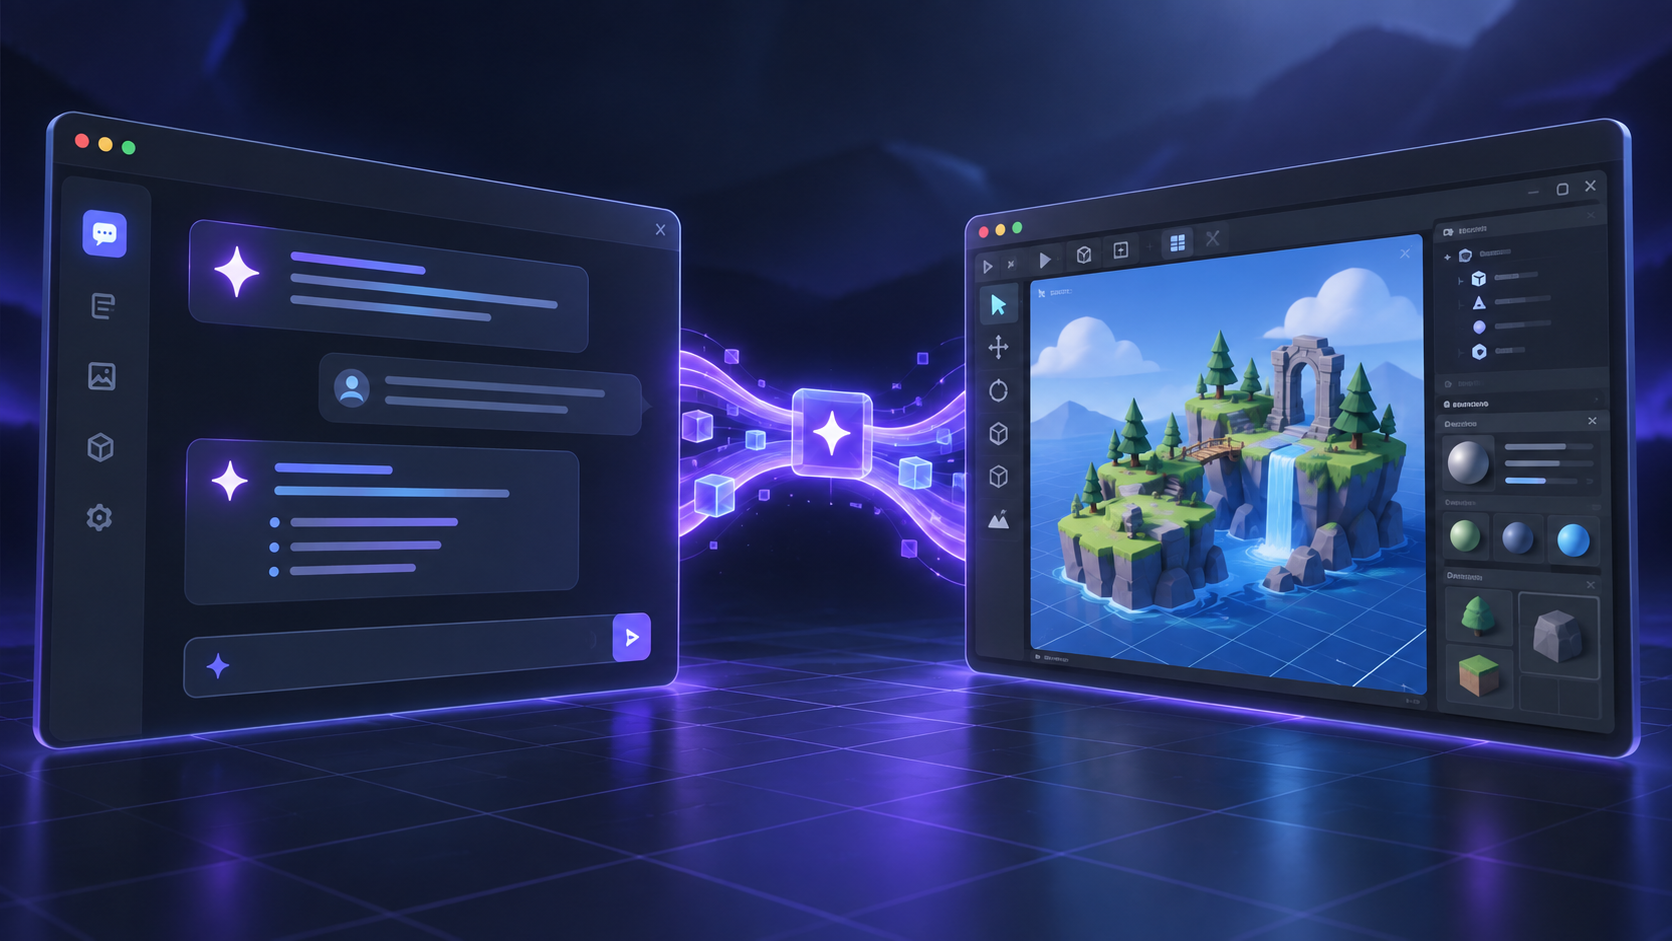
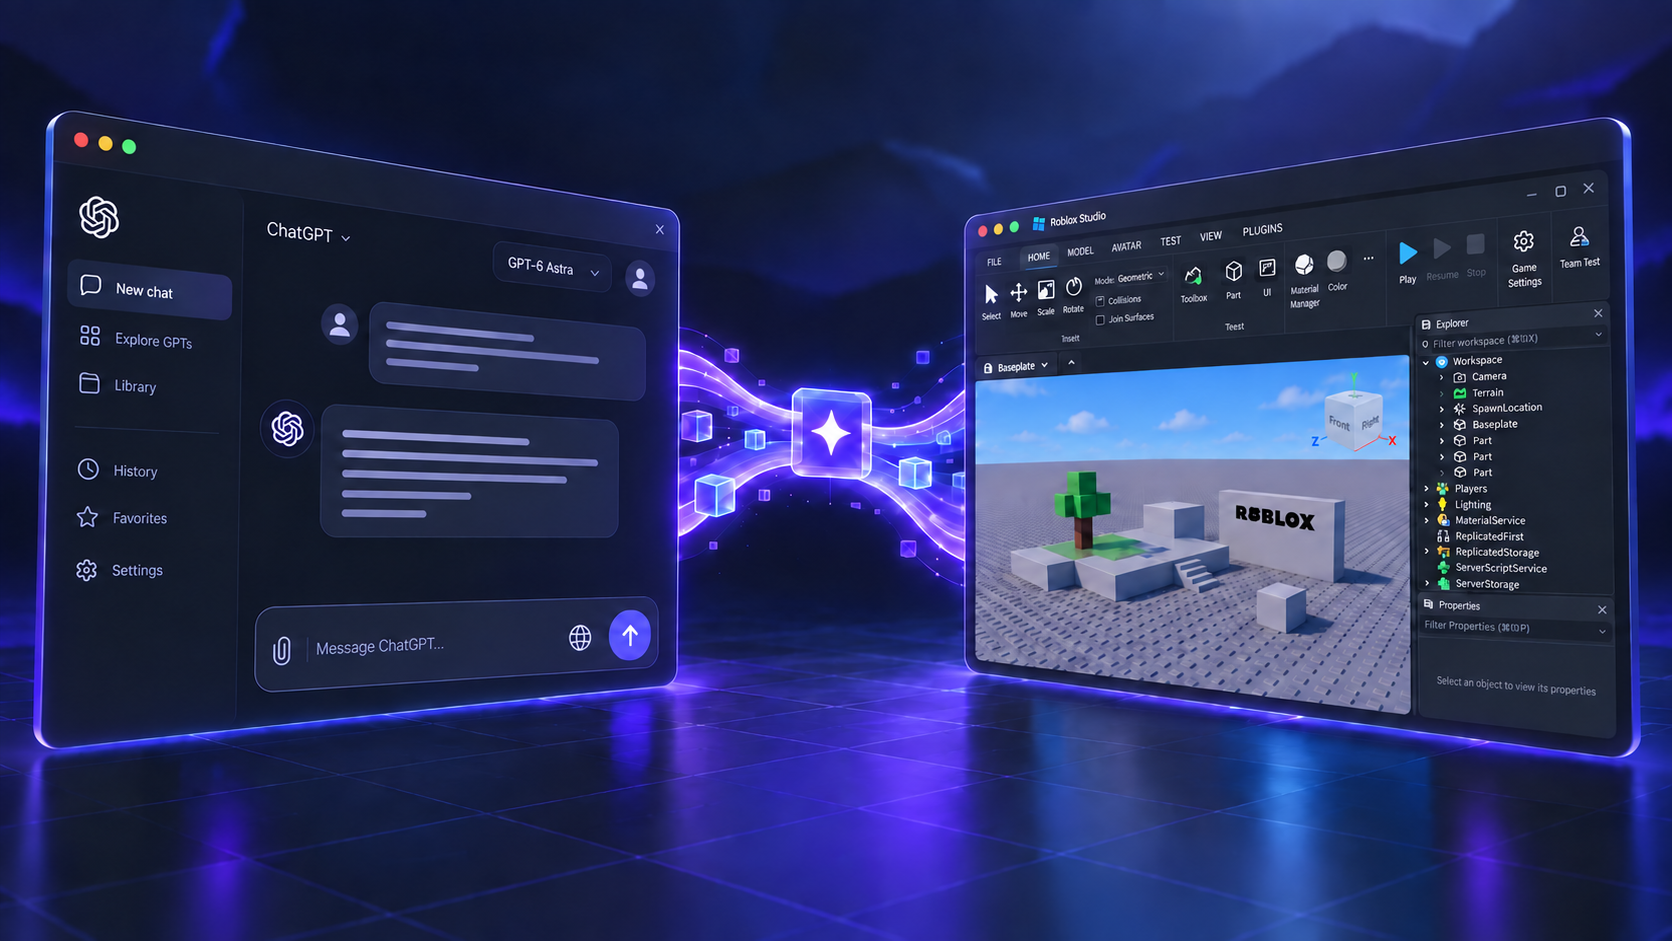
Update README graphics and add Sylo credit

diff --git a/README.md b/README.md
@@ -8,6 +8,8 @@
 
 StudioLink Lite connects supported browser AI chats with Roblox Studio through a local StudioMCP bridge. No API key is required for browser providers.
 
+<p align="center"><sub>Autor: Sylo</sub></p>
+
 ## Requirements
 
 - Python 3.9+
